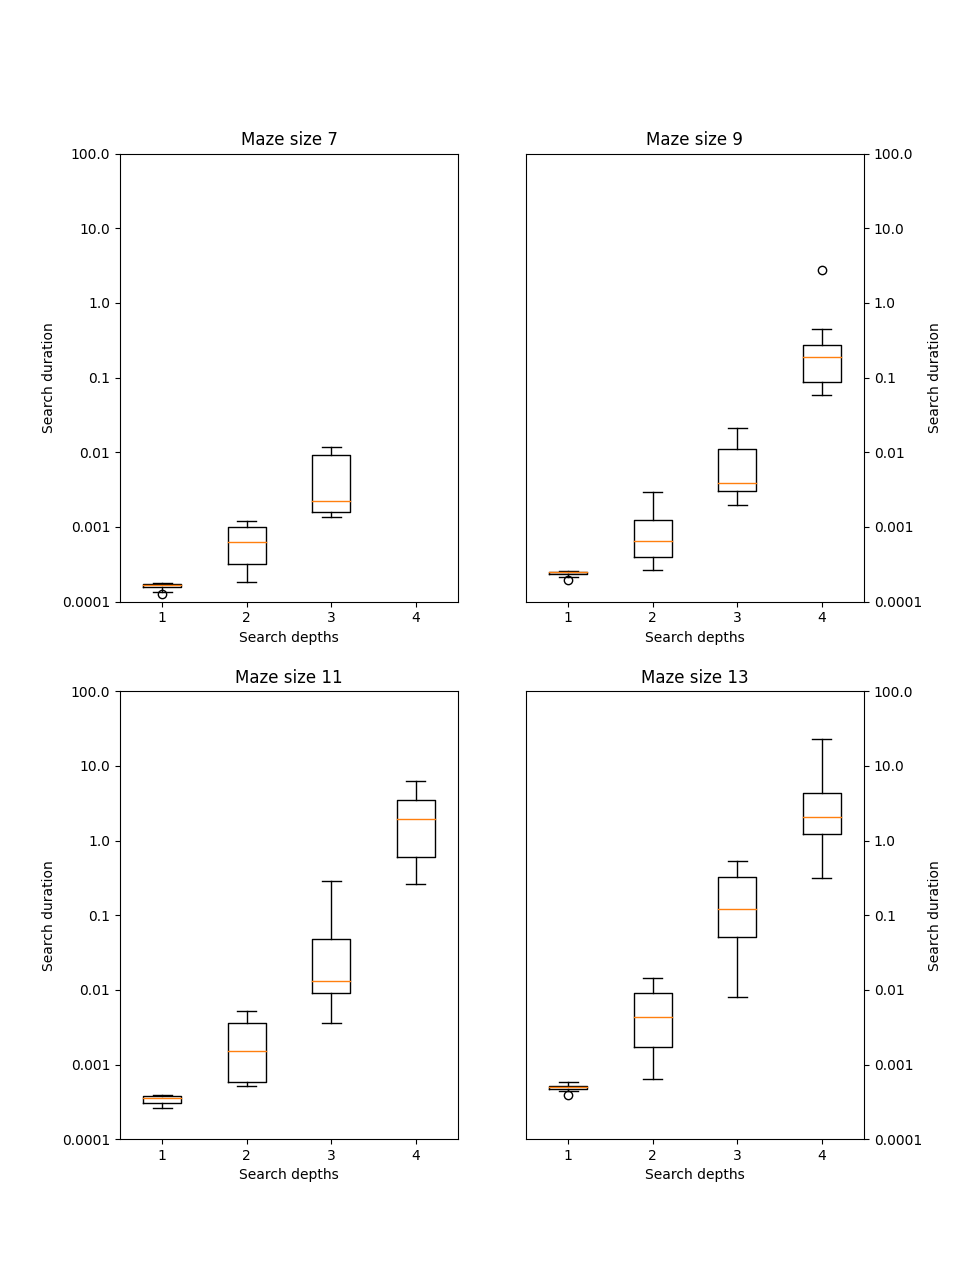
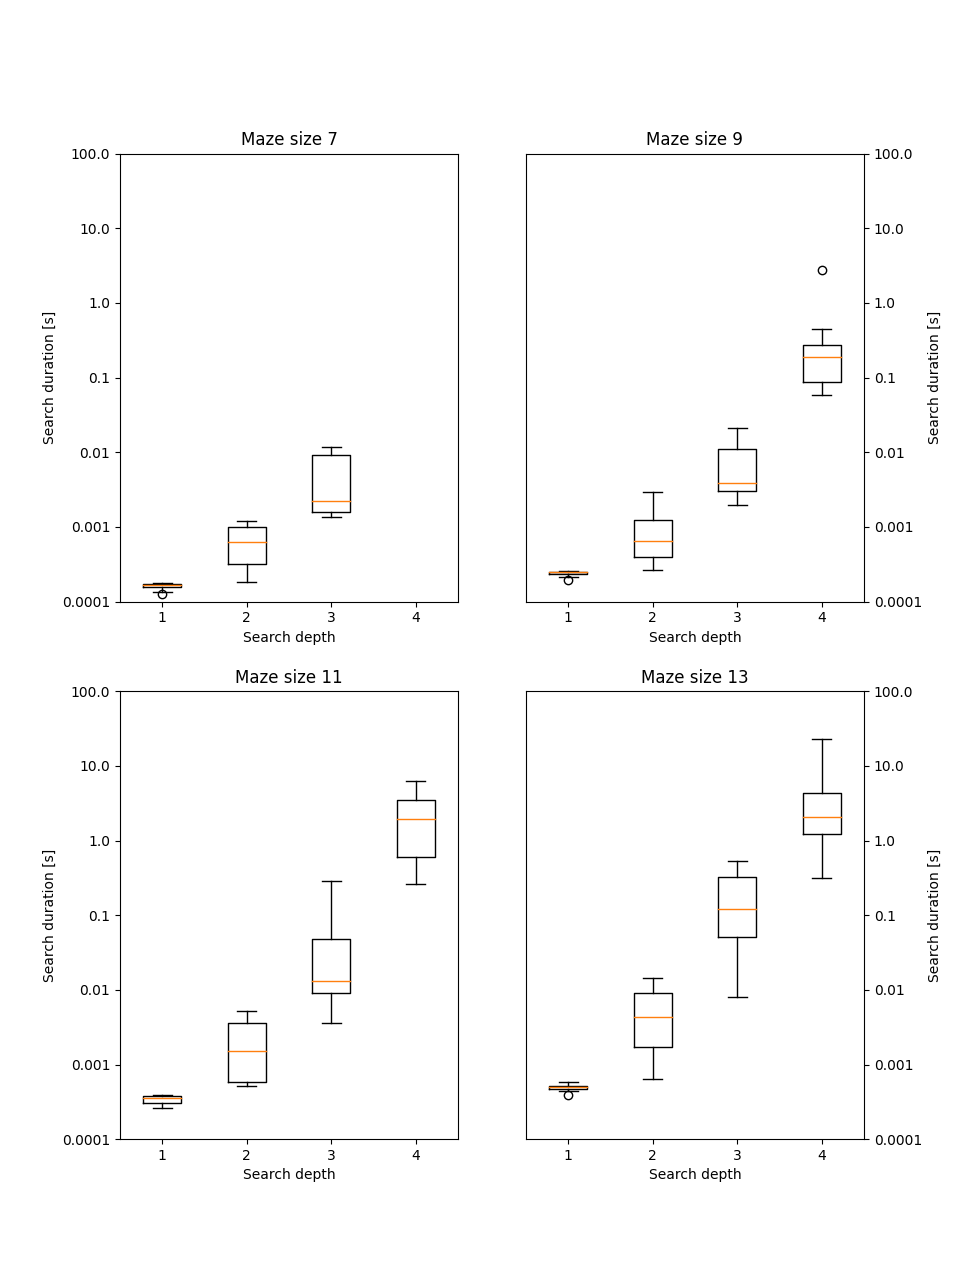
experiments: minor changes in plots

diff --git a/backend/experiments/exhsearch/evaluate.py b/backend/experiments/exhsearch/evaluate.py
@@ -66,9 +66,9 @@ def plot(benchmark_csv, outimage, nrows, ncols, algo_name):
         values = [by_depth[d] for d in sorted(by_depth)]
         ax = plt.subplot(nrows, ncols, plot_num)
         ax.boxplot(values)
-        ax.set_ylabel("Search duration")
+        ax.set_ylabel("Search duration [s]")
         ax.set_title(f"Maze size {size}")
-        ax.set_xlabel("Search depths")
+        ax.set_xlabel("Search depth")
         ax.set_xticks(depths)
         ax.set_xticklabels(depths)
         ax.set_yticks(time_range)

diff --git a/backend/experiments/exhsearch/depths.py b/backend/experiments/exhsearch/depths.py
@@ -73,6 +73,7 @@ def plot(infile, outfile):
         ax.bar(x=percentages.index-leftmost+i*width, height=percentages["mazesize"], width=width,
                label=f"size: {maze_size}")
     ax.set_ylabel('%')
+    ax.set_xlabel("Search depth")
     ax.set_title('Distribution of exhaustive search depths')
     ax.set_xticks(depths)
     ax.set_xticklabels(depths)
